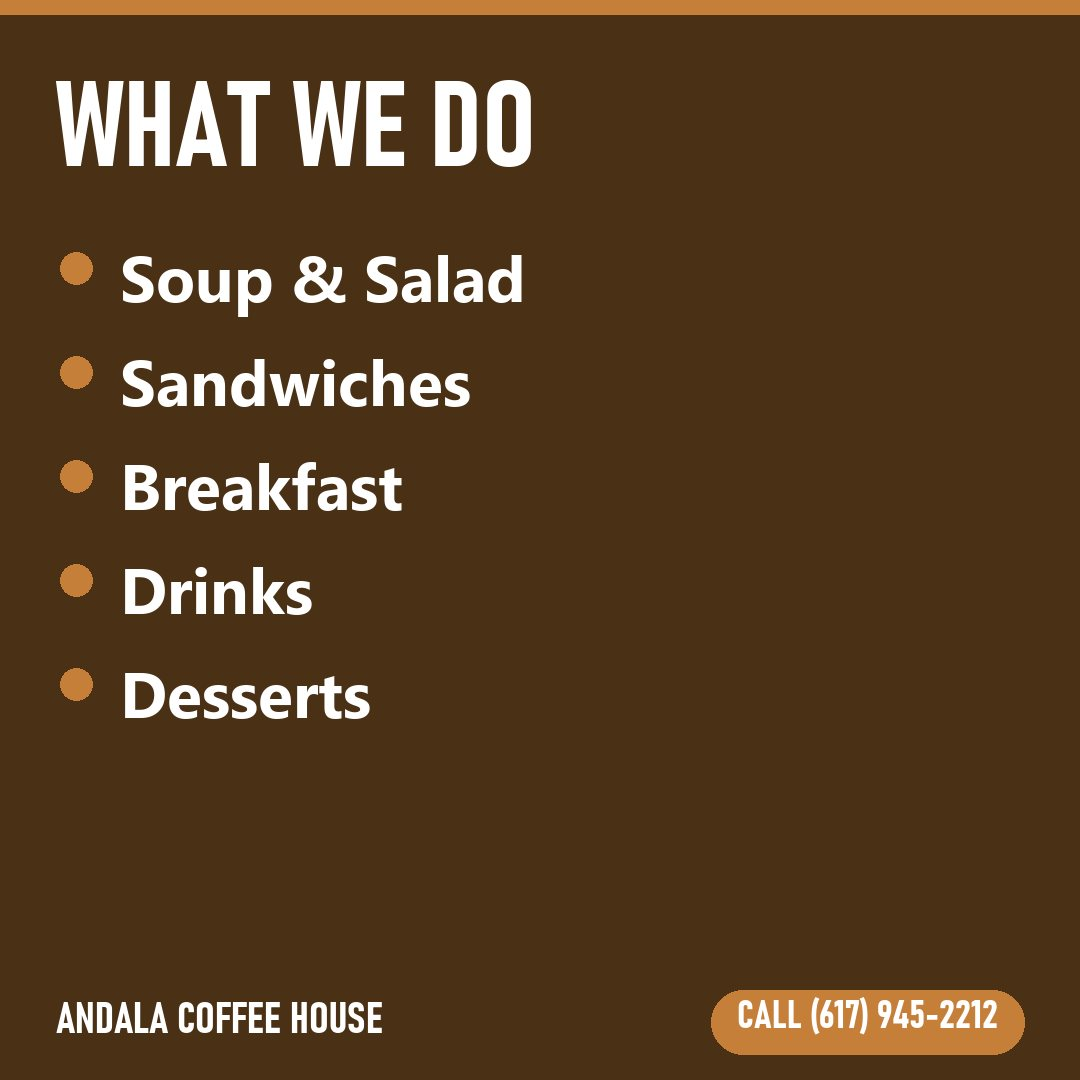
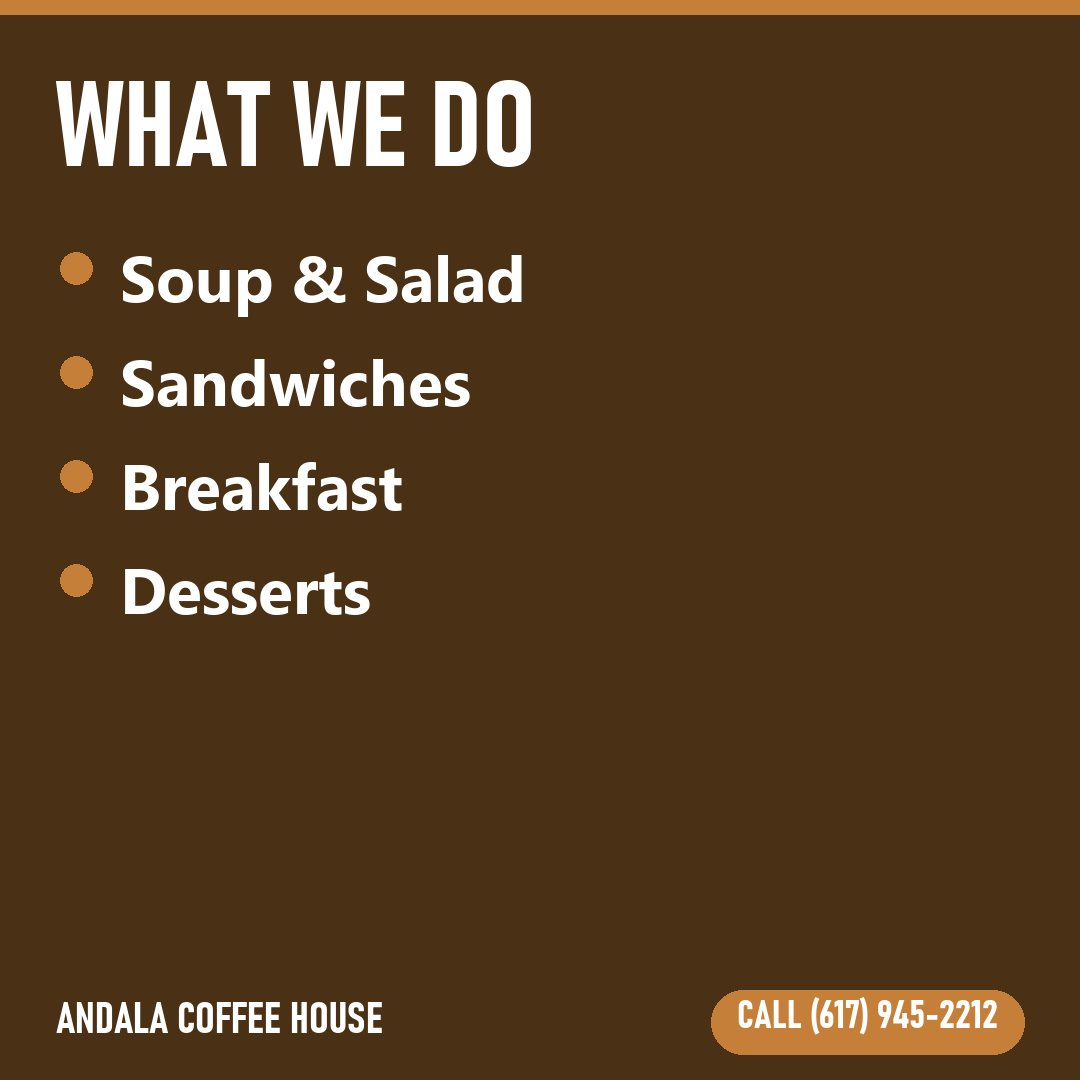
Sample posts for Andala Coffee House

Changed region(s): [[0.0611, 0.6111, 0.3361, 0.6722], [0.1528, 0.5194, 0.3361, 0.5806]]

diff --git a/posts-andala-coffee-house-85fb3e/index.html b/posts-andala-coffee-house-85fb3e/index.html
@@ -20,5 +20,5 @@ color:#fff;font-size:12px;padding:6px 11px;border-radius:999px}</style><style id
 @media (max-width:560px){#claim.site{bottom:80px}}
 </style></head><body><div class="wrap">
 <h1>Sample posts for Andala Coffee House</h1><p class="sub">Made from your own photos and services. This is how they'd look on your Facebook page.</p>
-<div class="post"><div class="head"><span class="dot"></span>Andala Coffee House</div><img src="post-1.jpg" alt="Sample post" width="1080" height="1080" loading="lazy"><div class="cap">Andala Coffee House in Cambridge. Soup &amp; Salad, Sandwiches and more. Call (617) 945-2212. #Cambridge #Cafe</div></div><div class="post"><div class="head"><span class="dot"></span>Andala Coffee House</div><img src="post-2.jpg" alt="Sample post" width="1080" height="1080" loading="lazy"><div class="cap">Here&#x27;s what Andala Coffee House does: Soup &amp; Salad, Sandwiches, Breakfast, Drinks, Desserts. Call (617) 945-2212. #Cambridge</div></div><div class="post"><div class="head"><span class="dot"></span>Andala Coffee House</div><img src="post-3.jpg" alt="Sample post" width="1080" height="1080" loading="lazy"><div class="cap">Come see us at 286 Franklin Street, Cambridge, MA, 02139. Call (617) 945-2212. #Cambridge</div></div><div class="post"><div class="head"><span class="dot"></span>Andala Coffee House</div><img src="post-4.jpg" alt="Sample post" width="1080" height="1080" loading="lazy"><div class="cap"></div></div><div class="post"><div class="head"><span class="dot"></span>Andala Coffee House</div><img src="post-5.jpg" alt="Sample post" width="1080" height="1080" loading="lazy"><div class="cap"></div></div></div><div id="claim" class="posts"><div class="card" role="dialog" aria-label="About this preview"><button class="x" aria-label="Close" onclick="event.stopPropagation();this.closest('#claim').classList.remove('open')">×</button><h3>Fresh posts like these for Andala Coffee House, every day</h3><p>Dennis Goodwin made these samples from your own photos and services. Nothing has been posted anywhere. If you'd like them on your Facebook page, just reply <b>"yes"</b> to Dennis Goodwin's email.</p><p class="small">Nothing to pay unless you decide you want it.</p></div><button type="button" onclick="this.parentNode.classList.toggle('open')">Samples <b>want these?</b></button></div></body></html>
-<!-- echo:590f25fbad6a -->
+<div class="post"><div class="head"><span class="dot"></span>Andala Coffee House</div><img src="post-1.jpg" alt="Sample post" width="1080" height="1080" loading="lazy"><div class="cap">Andala Coffee House in Cambridge. Soup &amp; Salad, Sandwiches and more. Call (617) 945-2212. #Cambridge #Cafe</div></div><div class="post"><div class="head"><span class="dot"></span>Andala Coffee House</div><img src="post-2.jpg" alt="Sample post" width="1080" height="1080" loading="lazy"><div class="cap">Here&#x27;s what Andala Coffee House does: Soup &amp; Salad, Sandwiches, Breakfast, Desserts. Call (617) 945-2212. #Cambridge</div></div><div class="post"><div class="head"><span class="dot"></span>Andala Coffee House</div><img src="post-3.jpg" alt="Sample post" width="1080" height="1080" loading="lazy"><div class="cap">Come see us at 286 Franklin Street, Cambridge, MA, 02139. Call (617) 945-2212. #Cambridge</div></div></div><div id="claim" class="posts"><div class="card" role="dialog" aria-label="About this preview"><button class="x" aria-label="Close" onclick="event.stopPropagation();this.closest('#claim').classList.remove('open')">×</button><h3>Fresh posts like these for Andala Coffee House, every day</h3><p>Dennis Goodwin made these samples from your own photos and services. Nothing has been posted anywhere. If you'd like them on your Facebook page, just reply <b>"yes"</b> to Dennis Goodwin's email.</p><p class="small">Nothing to pay unless you decide you want it.</p></div><button type="button" onclick="this.parentNode.classList.toggle('open')">Samples <b>want these?</b></button></div></body></html>
+<!-- echo:22a6771cb201 -->
